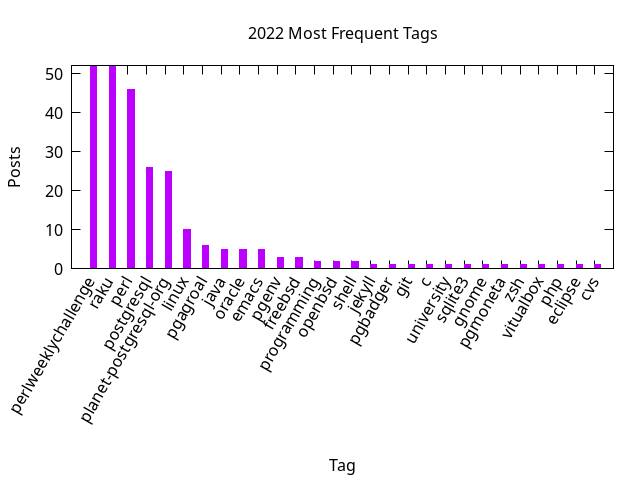
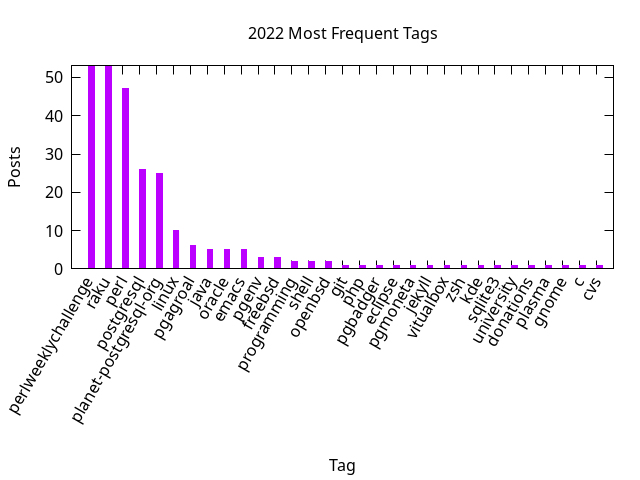
Stats update

Changed region(s): [[0.0625, 0.125, 0.9375, 0.9062], [0.0, 0.6875, 0.0938, 0.875], [0.0625, 0.125, 0.0938, 0.1875]]

diff --git a/_includes/stats/2022.md b/_includes/stats/2022.md
@@ -1,13 +1,13 @@
 <a name="2022" />
 ## 2022 (work in progress)
 
-**101 total posts** have been written on 2022.
-There have been *28 different tags* used, the most
+**103 total posts** have been written on 2022.
+There have been *31 different tags* used, the most
 popular being (sorted by number of posts):
  
-- *perlweeklychallenge* (52 posts)  
-- *raku* (52 posts)  
-- *perl* (46 posts)  
+- *perlweeklychallenge* (53 posts)  
+- *raku* (53 posts)  
+- *perl* (47 posts)  
 - *postgresql* (26 posts)  
 - *planet-postgresql-org* (25 posts)  
 - *linux* (10 posts)  
@@ -18,20 +18,23 @@ popular being (sorted by number of posts):
 - *pgenv* (3 posts)  
 - *freebsd* (3 posts)  
 - *programming* (2 posts)  
-- *openbsd* (2 posts)  
 - *shell* (2 posts)  
-- *jekyll* (1 posts)  
-- *pgbadger* (1 posts)  
+- *openbsd* (2 posts)  
 - *git* (1 posts)  
-- *c* (1 posts)  
-- *university* (1 posts)  
-- *sqlite3* (1 posts)  
-- *gnome* (1 posts)  
-- *pgmoneta* (1 posts)  
-- *zsh* (1 posts)  
-- *vitualbox* (1 posts)  
 - *php* (1 posts)  
+- *pgbadger* (1 posts)  
 - *eclipse* (1 posts)  
+- *pgmoneta* (1 posts)  
+- *jekyll* (1 posts)  
+- *vitualbox* (1 posts)  
+- *zsh* (1 posts)  
+- *kde* (1 posts)  
+- *sqlite3* (1 posts)  
+- *university* (1 posts)  
+- *donations* (1 posts)  
+- *plasma* (1 posts)  
+- *gnome* (1 posts)  
+- *c* (1 posts)  
 - *cvs* (1 posts).<br/>
 <br/>
 The following is the overall 2022 post ratio by month:
@@ -51,7 +54,7 @@ The following is the overall 2022 post ratio by tag (showing max 30 tags):
 
 <div align="right">
 <small>
-Last generated on 2022-12-22 at 10:58
+Last generated on 2022-12-27 at 11:24
 </small>
 </div>
 
